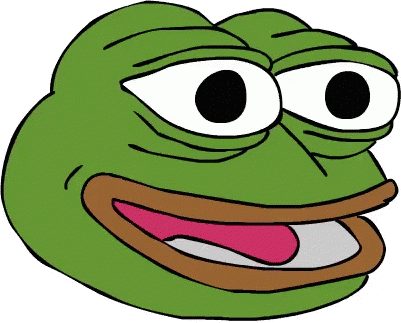
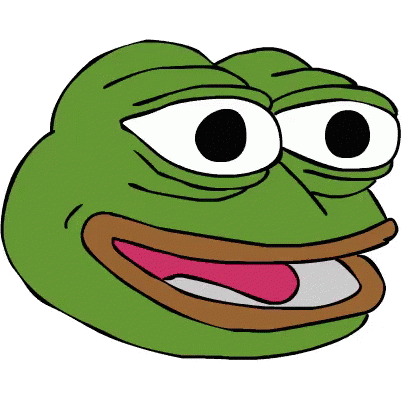
pepe

diff --git a/client/css/style.css b/client/css/style.css
@@ -18,7 +18,7 @@
 
 .tapbutton {
     display:block;
-    height: auto;
+    height: 300px;
     width: 300px;
     /*background: darkgreen;
     -moz-border-radius: 150px;
@@ -32,8 +32,9 @@
     -moz-transition-property: -moz-transform;
     -o-transition-property: -o-transform;
     transition-property: transform;*/
-    background-image: url('../img/largepepe.png');
+    background-image: url('../img/originalpepe.png');
     background-size: contain;
+    background-repeat: no-repeat;
     position: absolute;
     top: 50%;
     left: 50%;
@@ -43,13 +44,13 @@
 
 .pepimg {
     display:block;
-    height: auto;
+    height: 50px;
     width: 50px;
     /*background: lawngreen;
     -moz-border-radius: 25px;
     -webkit-border-radius: 25px;
     border-radius: 25px;*/
-    background-image: url('../img/largepepe.png');
+    background-image: url('../img/originalpepe.png');
     background-size:contain;
     z-index: 2 !important;
 }
